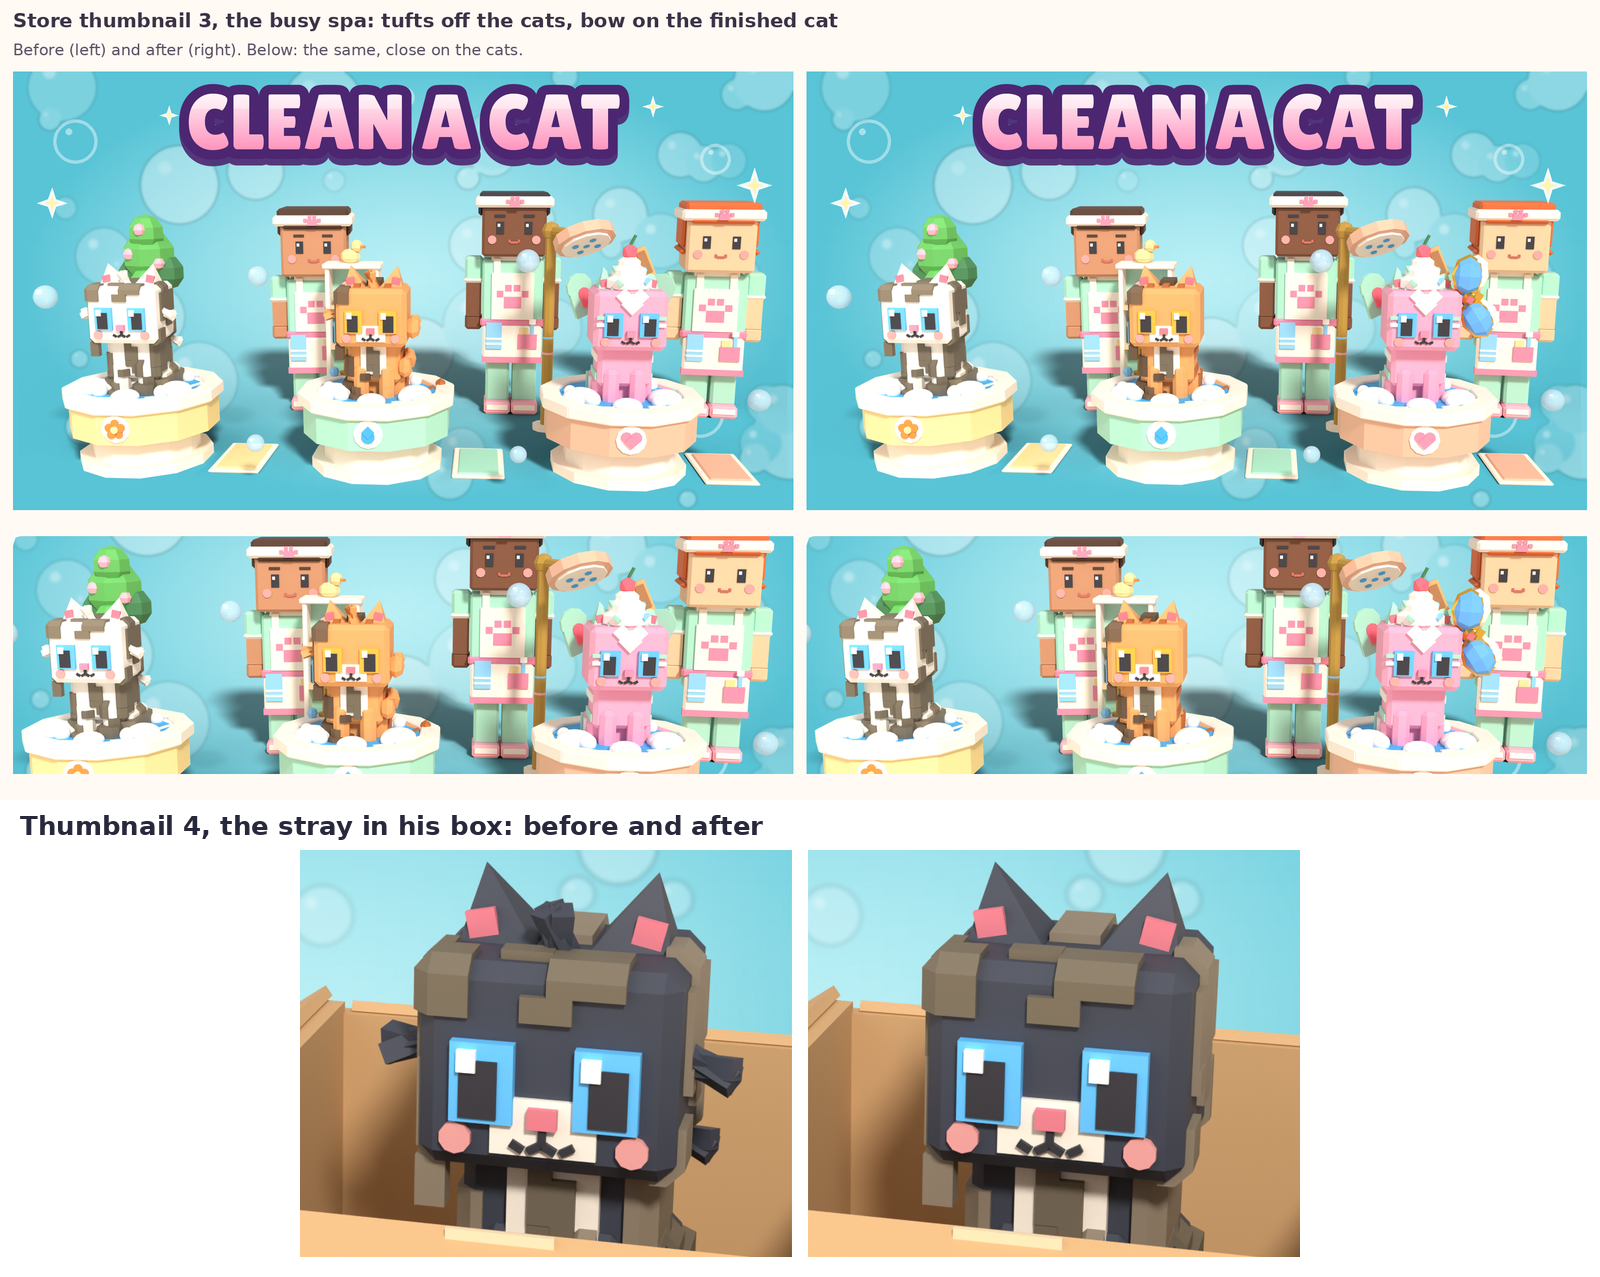
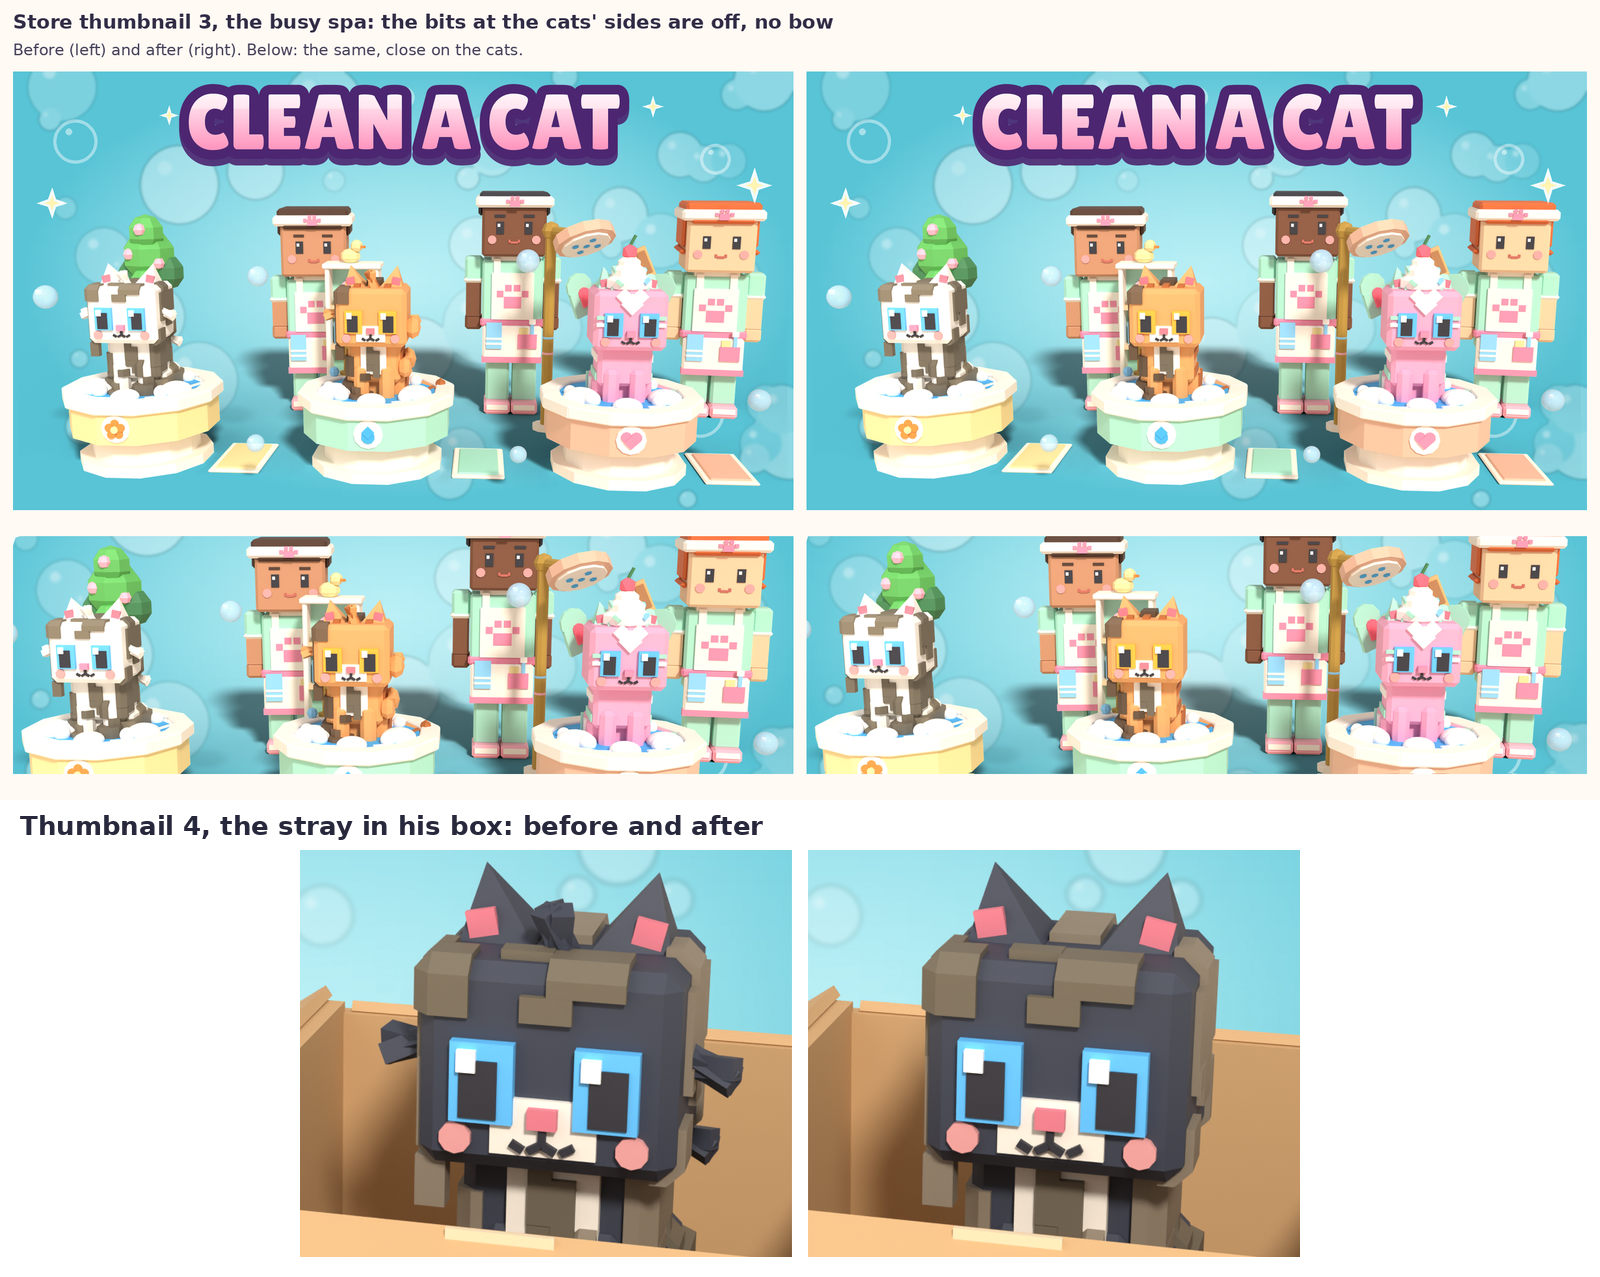
Store thumbnail 3: no bow on the finished cat
The owner, 2026-11-26: "remove the giant blue bow that appeared on pink cats head".
Part of #106.

Claude-Session: https://claude.ai/code/session_01DW2up3E6M21fYJtCcCtEdr

diff --git a/assets/clean-a-cat/blender/store_art.py b/assets/clean-a-cat/blender/store_art.py
@@ -654,39 +654,14 @@ def thumb_lineup(mat, out, res):
 
 
 BUSY = (("Lou", "Cotton", "dirty"), ("Sam", "Muffin", "half"), ("Jo", "Sherbet", "plain"))
-BUSY_BOW = "CleanACat_Bow_SkyRoyal"    # the finished cat wears a bow, as a wash ends: sky with gold rims, to stand off
-                                      # the pink cat and the mint uniform behind it
-
-
-def worn_bow(bow, cat, mat, at, k):
-    """A bow on a sitting cat standing at `at`, scaled `k`, as the game wears it (Spa/BowFit.luau): on the head's
-    `BowSlot` and at the cat's own scale. A sitting cat is built a little smaller than its bow, as in the game."""
-    special = cat in cats.SPECIAL_CATS
-    spec = cats.SPECIAL_CATS[cat] if special else cats.ROSTER[cat]
-    if special and props.slot(cat) in ("Head", "Face"):
-        spot, turn = props.bow_corner(spec, "sit", cat)
-        turn = turn.to_4x4()
-    else:
-        spot, tip = cats.bow_side(spec, "sit")
-        turn = Matrix.Rotation(math.radians(tip), 4, "Y")
-    slot = Vector(cats.joints(spec, "sit")["Head"]) + Vector(spot) * cats.scale_of(spec, "sit")
-    m = Matrix.Translation(Vector(at)) @ Matrix.Scale(k, 4) @ Matrix.Translation(slot) @ turn
-    objs = props.build_bow(bow, mat) if bow in props.BOWS else props.build_tier_bow(bow, mat)
-    if special:                                           # the game leaves a tier bow's fan off a cat with a head piece
-        for o in [o for o in objs if o.name.endswith("_Fan")]:
-            objs.remove(o)
-            _remove(o)
-    for o in objs:
-        o.matrix_world = m @ o.matrix_basis
-    return _fresh(objs)
 
 
 def thumb_busy(mat, out, res):
     """Thumbnail: the busy spa. The three wash stands in front, each with a cat a step further along: a muddy one,
-    one half washed and a special visitor's cat clean with its bow on (the owner, 2026-11-26: "update busy spaw
-    thumbnail 3 to have the cat uodates etc"). The workers stand behind and between the stands, facing the
-    camera, so the cats are the biggest things in the frame (Review-QA on #106: with the staff beside the cats it
-    read as a game about people)."""
+    one half washed and one clean. No bow on the clean cat: the owner, 2026-11-26, on a sky Royal bow tried there,
+    "remove the giant blue bow that appeared on pink cats head". The workers stand behind and between the stands,
+    facing the camera, so the cats are the biggest things in the frame (Review-QA on #106: with the staff beside the
+    cats it read as a game about people)."""
     import spa_staff
     import worker_stations as ws
     objs = []
@@ -696,8 +671,6 @@ def thumb_busy(mat, out, res):
         _move(stand, (x, 0, 0))
         objs += _fresh(stand)
         objs += cat_state(cat, mat, "sit", state, (x + ws.BX, ws.BY, ws.SEAT), TUB_K)
-        if state == "plain":                              # the last step: a bow, where the game puts it (#764, #782)
-            objs += worn_bow(BUSY_BOW, cat, mat, (x + ws.BX, ws.BY, ws.SEAT), TUB_K)
         staff = spa_staff.build_staff(who, mat)
         _move(staff, (x + 2.25, 3.4, 0), 1.0, -6 * (i - 1))
         objs += _fresh(staff)

diff --git a/docs/concepts/clean-a-cat/README.md b/docs/concepts/clean-a-cat/README.md
@@ -123,4 +123,4 @@ HUD source page: `assets/clean-a-cat/ui/hud.html`. Plans: issues #5 (first sessi
 - `2026-11-26-special-cat-bows.png`: the check sheet for #782. Sync-Agent saw the Royal bow's loop clip the crown's edge on Rosette and Stardust in Studio (#773). The ten cats with a head piece wearing the Royal bow, the widest, before (on the head's top corner, tipped 60 degrees) and after (0.045 further out, 0.09 lower, tipped 75 degrees), from the front and close from above on four of them. Measured with every pink tier on all ten: no bow cuts a crown, horn or antler now; the Royal bow still touches the rim of Bathtile's cap and the little gem on Stardust's corner stalk. Seen only in Blender.
 - `2026-11-26-special-cat-bows-own-spots.png`: the second check sheet for #782. Sync-Agent's look in Studio after the first fix still found the Royal and Double bows in Stardust's stalk and gem and in Bathtile's cap. The Royal bow on Bathtile, Stardust and Djinn before and after each got its own spot, from the front and from above, with the bow at the size the game wears it. The numbers behind it come from `rbx_bowfit.py`, which measures the Roblox parts.
 - `2026-11-26-uploaded-pictures-cheeks.png`: the check sheet for #784: the `Helper` and `Helpers` HUD pictures and Suds's portrait before and after their cheek bars became round cheeks, the HUD pictures also at 48 and 36 px. These three are uploaded to the group again; nothing else in them changed.
-- `2026-11-26-store-thumbnails-no-side-bits.png`: store thumbnail 3 (the busy spa) and thumbnail 4 (the stray in his box) before and after the owner's two notes of 2026-11-26 ("update busy spaw thumbnail 3 to have the cat uodates etc", then "the cats still have the random skin sticking out their sides"). The bits at the cats' sides were the tangle clumps on the muddy cats and the fluff puffs on the clean one; at picture size they read as flaps, not fur. Both are now off every cat in store art (`TUFTS` in `store_art.py`), as they already were in the half muddy pictures. In thumbnail 3 the finished cat also wears a bow now (sky Royal, on the head's top corner as in the game). The main icon, icon E and thumbnails 1 and 2 came out pixel for pixel the same. The full size files are in the shared folder under `Model-Agent/store-art/picked-2026-11-26/`. The game's own models still carry the tangles and fluff. Not uploaded: the owner puts the store art on the page.
+- `2026-11-26-store-thumbnails-no-side-bits.png`: store thumbnail 3 (the busy spa) and thumbnail 4 (the stray in his box) before and after the owner's two notes of 2026-11-26 ("the cats still have the random skin sticking out their sides"). The bits at the cats' sides were the tangle clumps on the muddy cats and the fluff puffs on the clean one; at picture size they read as flaps, not fur. Both are now off every cat in store art (`TUFTS` in `store_art.py`), as they already were in the half muddy pictures. A sky Royal bow tried on the finished cat in thumbnail 3 came off again on his word the same day ("remove the giant blue bow that appeared on pink cats head"): beside Sherbet's sundae the game's bow stands off the side of the head. The main icon, icon E and thumbnails 1 and 2 came out pixel for pixel the same. The full size files are in the shared folder under `Model-Agent/store-art/picked-2026-11-26/`. The game's own models still carry the tangles and fluff. Not uploaded: the owner puts the store art on the page.
